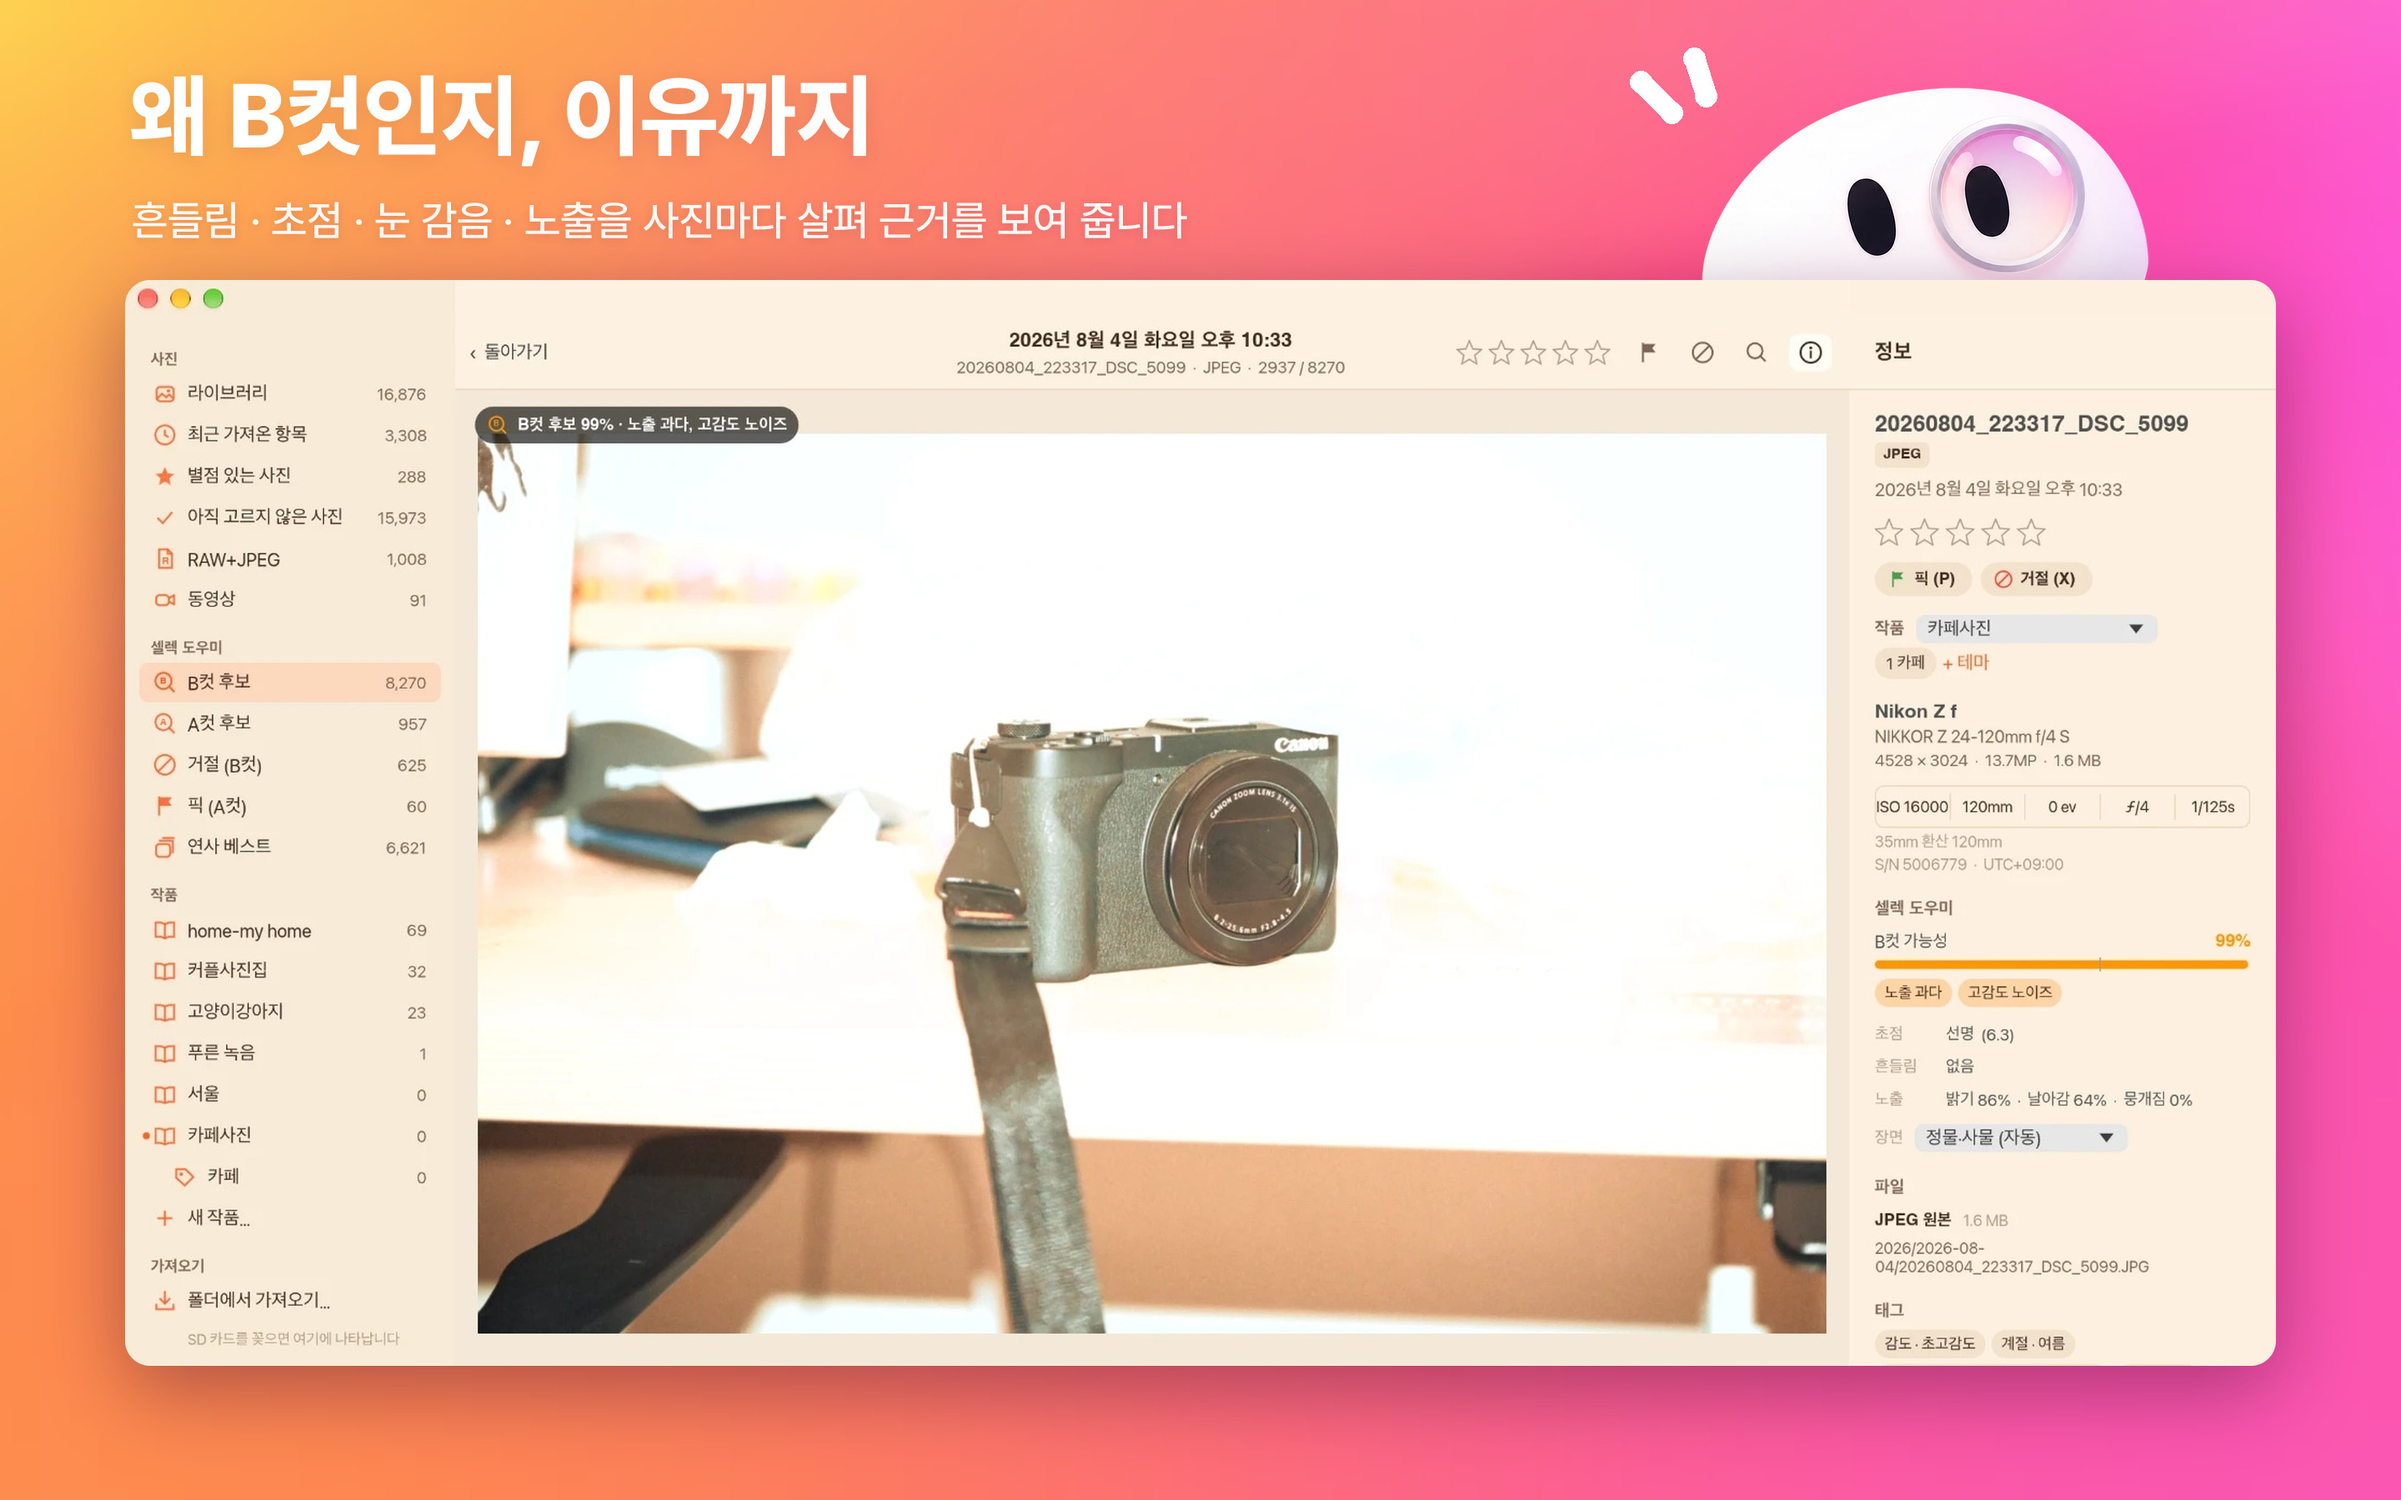
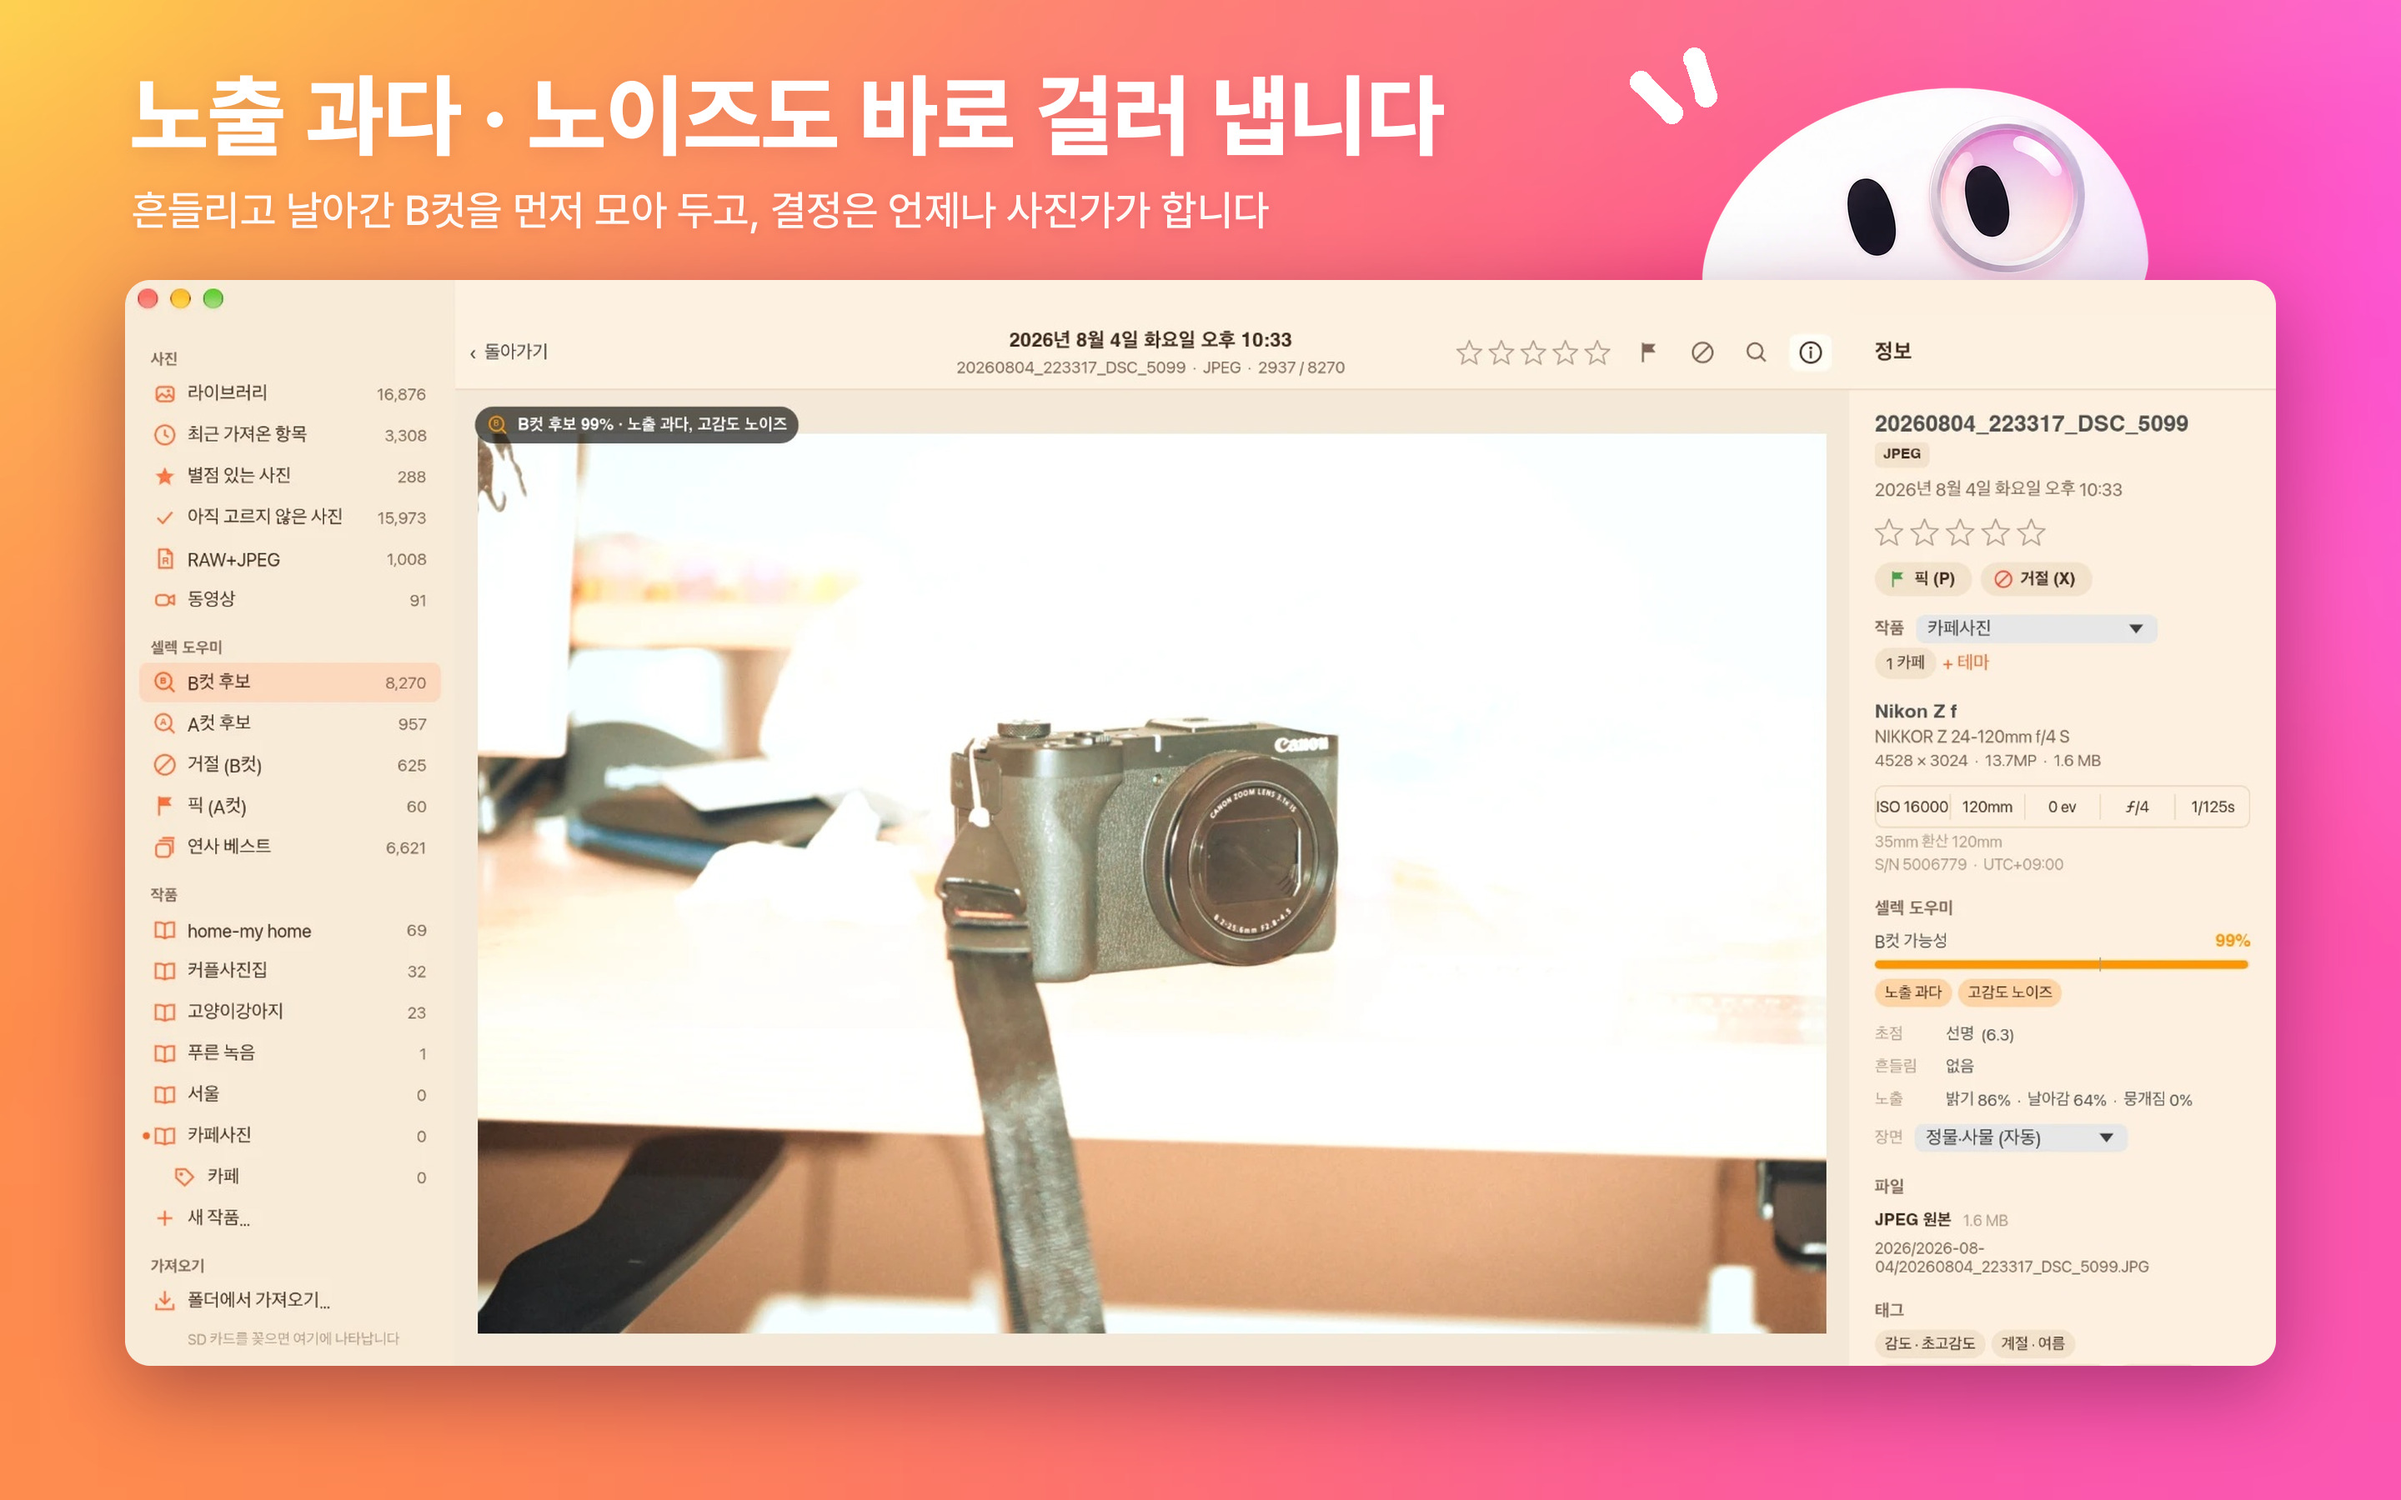
Mac App Store: 견본 스크린샷을 실제 사진 · 0.7.3 화면 7장으로 교체

Changed region(s): [[0.0312, 0.0311, 0.625, 0.1556]]

diff --git a/scripts/make-store-images.py b/scripts/make-store-images.py
@@ -30,12 +30,12 @@ FONTS = f"{ROOT}/site/node_modules/pretendard/dist/public/static"
 # name (raw/<name>.jpg), headline, line under it
 SHOTS = [
     ("real-1-acut", "잘 나온 A컷부터 보여 줍니다", "고를수록 내 눈을 닮아 가는 셀렉 — 수천 장에서 좋은 컷을 먼저"),
-    ("real-2-viewer", "왜 B컷인지, 이유까지", "흔들림 · 초점 · 눈 감음 · 노출을 사진마다 살펴 근거를 보여 줍니다"),
-    ("1-library", "카드에서 서랍까지, 한 번에", "꽂으면 날짜별로 옮겨 정리하고, RAW 와 JPEG 은 한 장으로 묶습니다"),
-    ("2-bcut", "B컷은 먼저 걸러 둡니다", "흔들리고 핀 나간 컷을 모아 한 번에 거절 — 결정은 언제나 사진가가"),
-    ("3-acut", "연사에서는 베스트 한 장만", "가장 잘 나온 사진을 앞에 모아 두는 A컷 후보"),
-    ("4-works", "작품 · 테마로 모아 편집으로", "고른 사진을 작품 폴더에 모아 Lightroom 에서 바로 시작하세요"),
-    ("5-viewer", "별점은 키 하나로", "1–5 별점 · P 픽 · X 거절 — 크게 보면서 손은 키보드에"),
+    ("real-3-focus", "왜 B컷인지, 근거를 한눈에", "초점 · 수직선 · 연사 순위를 함께 보여 주어 믿고 거를 수 있습니다"),
+    ("real-4-portrait", "인물 · 구도 · 시선까지 살핍니다", "얼굴 초점과 헤드룸 · 시선 앞 공간 · 수직선까지 꼼꼼히 짚어 줍니다"),
+    ("real-5-rated", "별점 매기고 사진집으로 한 번에", "고른 사진을 테마별로 모아 별점 XMP 와 함께 Lightroom 으로 보냅니다"),
+    ("real-6-crop", "자동 수평 · 구도 크롭까지", "수평 · 수직선과 3분할 구도를 모델이 계산해 한 번에 맞춰 줍니다"),
+    ("real-7-scene", "장면마다 다른 기준으로, 구도까지", "동물 · 인물 · 정물 등 장면을 알아보고 기울기와 3분할 구도를 살핍니다"),
+    ("real-2-viewer", "노출 과다 · 노이즈도 바로 걸러 냅니다", "흔들리고 날아간 B컷을 먼저 모아 두고, 결정은 언제나 사진가가 합니다"),
 ]
 
 if not os.path.exists(f"{FONTS}/Pretendard-Bold.otf"):

diff --git a/docs/DEVLOG.md b/docs/DEVLOG.md
@@ -85,7 +85,7 @@ LOUPE(0.5.0 까지의 이름: Photo Organize)를 만들면서 받은 **요청과
 
 ### 개발 쪽
 
-- [ ] **스토어 스크린샷을 실제 사진 · 지금 버전으로 다시 찍기.** 7장 중 5장이 견본 그림이고, 화면은 0.5 ~ 0.6 때의 것이라 구도 표시 · 크롭이 없습니다. 창 그림을 `docs/app-store/screenshots/raw/` 에 넣고 `scripts/make-store-images.py` 를 돌리면 됩니다. Play 스크린샷(`docs/play-store/graphics/phone-*` 등)도 예전 그대로입니다.
+- [ ] **Google Play 스토어 스크린샷을 실제 사진 · 지금 버전으로 다시 찍기.** Play 스크린샷(`docs/play-store/graphics/phone-*` 등)이 예전 견본 그대로입니다. (Mac App Store 스크린샷 7장은 11-18 에 실제 사진 · 0.7.3 화면으로 교체 완료)
 - [ ] **테마를 새 아이콘에 맞출지 정하기.** 크림 · 코코아 테마는 첫 아이콘에서 뽑은 색 그대로입니다 (사용자 결정 필요).
 - [ ] **실제 촬영본으로 문턱값 맞추기.** 구도(3분할 · 기울기 · 헤드룸)와 눈 감음은 공개 샘플 사진과 합성 테스트로만 확인했습니다. 기준 데이터셋 v1 이 필요합니다 ([ROADMAP](cull-engine/ROADMAP.md) M1).
 - [ ] **크롭을 XMP 로 내보내기.** 라이트룸에서 크롭이 이어지게 합니다 (0.7.1 의 남은 점).
@@ -453,4 +453,24 @@ LOUPE(0.5.0 까지의 이름: Photo Organize)를 만들면서 받은 **요청과
 - **남은 점**
   - 머지 뒤 사용자가 Actions → **app-store** → *Run workflow* 를 실행해 새 빌드(8)를 올리고, App Store Connect 의 0.7.3 버전에서 빌드 8 로 바꿔 다시 심사에 제출해야 합니다.
 
+### Mac App Store 스크린샷 실제 사진 · 0.7.3 화면으로 교체 (11-18)
 
+- **요청**: Mac 에서 직접 찍은 최신 LOUPE 화면 5장을 올리며 앱의 핵심 흐름("기계적 + 내가 많이 픽한 스타일 학습 기반 A/B컷 추천", "별점 → 사진집 → 폴더째 Lightroom 이동(XMP 포함)", "수평·수직 구도 모델 기반 자동 크롭")에 맞춰 앱스토어 제출용 이미지로 만들고 깃허브의 예시 이미지를 교체해 달라고 요청.
+- **반영**
+  - 기존 견본 그림 5장(`1-library` ~ `5-viewer`)을 `docs/app-store/screenshots/` 와 `raw/` 에서 삭제하고, 7장 모두 실제 사진 · 0.7.3 화면으로 구성했습니다(`scripts/make-store-images.py`, `docs/app-store/screenshots/`).
+    1. `real-1-acut.jpg` — 취향 학습 A컷 후보 목록 (기존 실제 사진 유지)
+    2. `real-3-focus.jpg` — 초점(배경이 인물보다 선명)·수직선·연사 순위 근거
+    3. `real-4-portrait.jpg` — 인물·구도·헤드룸·시선 앞 공간·수직선 분석
+    4. `real-5-rated.jpg` — 별점 있는 사진을 작품·테마로 보내기 (`home-my home`)
+    5. `real-6-crop.jpg` — 자동 수평·자동 구도 크롭
+    6. `real-7-scene.jpg` — 장면 자동 인식(동물)과 기울기·3분할 구도 표시
+    7. `real-2-viewer.jpg` — 노출 과다·고감도 노이즈 B컷 근거 (기존 실제 사진 유지)
+  - `docs/app-store/listing.md` 의 스크린샷 목록과 한국어·영어 설명에 구도·자동 수평 크롭 설명을 반영했습니다.
+- **결정과 이유**
+  - 올려주신 5장의 상단 macOS 메뉴바를 자르고, 사이드바 맨 아래 로컬 라이브러리 경로 영역만 사이드바 배경색으로 지워 하단 필름스트립 썸네일은 온전히 살리면서 개인 정보를 제거했습니다.
+  - 1번(취향 학습)은 기존 `real-1-acut.jpg`("내 기준으로 학습됨 · 정확도 74%")가 메시지를 가장 명확히 보여 주므로 유지하고, 고양이 구도 화면(`real-7-scene.jpg`)은 장면 인식·기울기 설명용 6번으로 배치했습니다.
+- **확인**
+  - `python3 scripts/make-store-images.py` 로 7장(2880×1800)을 생성해 글자·캐릭터·창 영역·개인 경로 제거 상태를 육안 확인했습니다 (`docs/play-store/graphics/feature-graphic.png` 는 변경 없음).
+- **남은 점**
+  - 채팅 업로드 이미지가 폭 `1024px` 로 축소된 상태라 `2880×1800` 캔버스에 확대되었습니다. 더 선명한 원본이 필요하면 Mac 원본 해상도 캡처를 `.zip` 으로 받아 `raw/` 만 바꿔 다시 생성할 수 있습니다.
+  - 작품 화면의 *새 사진 모으기... / 폴더 열기* 화면 캡처가 추가되면 그 흐름까지 보여 줄 수 있습니다. 스토어 등록 전 인물 사진 초상권 확인도 필요합니다.
